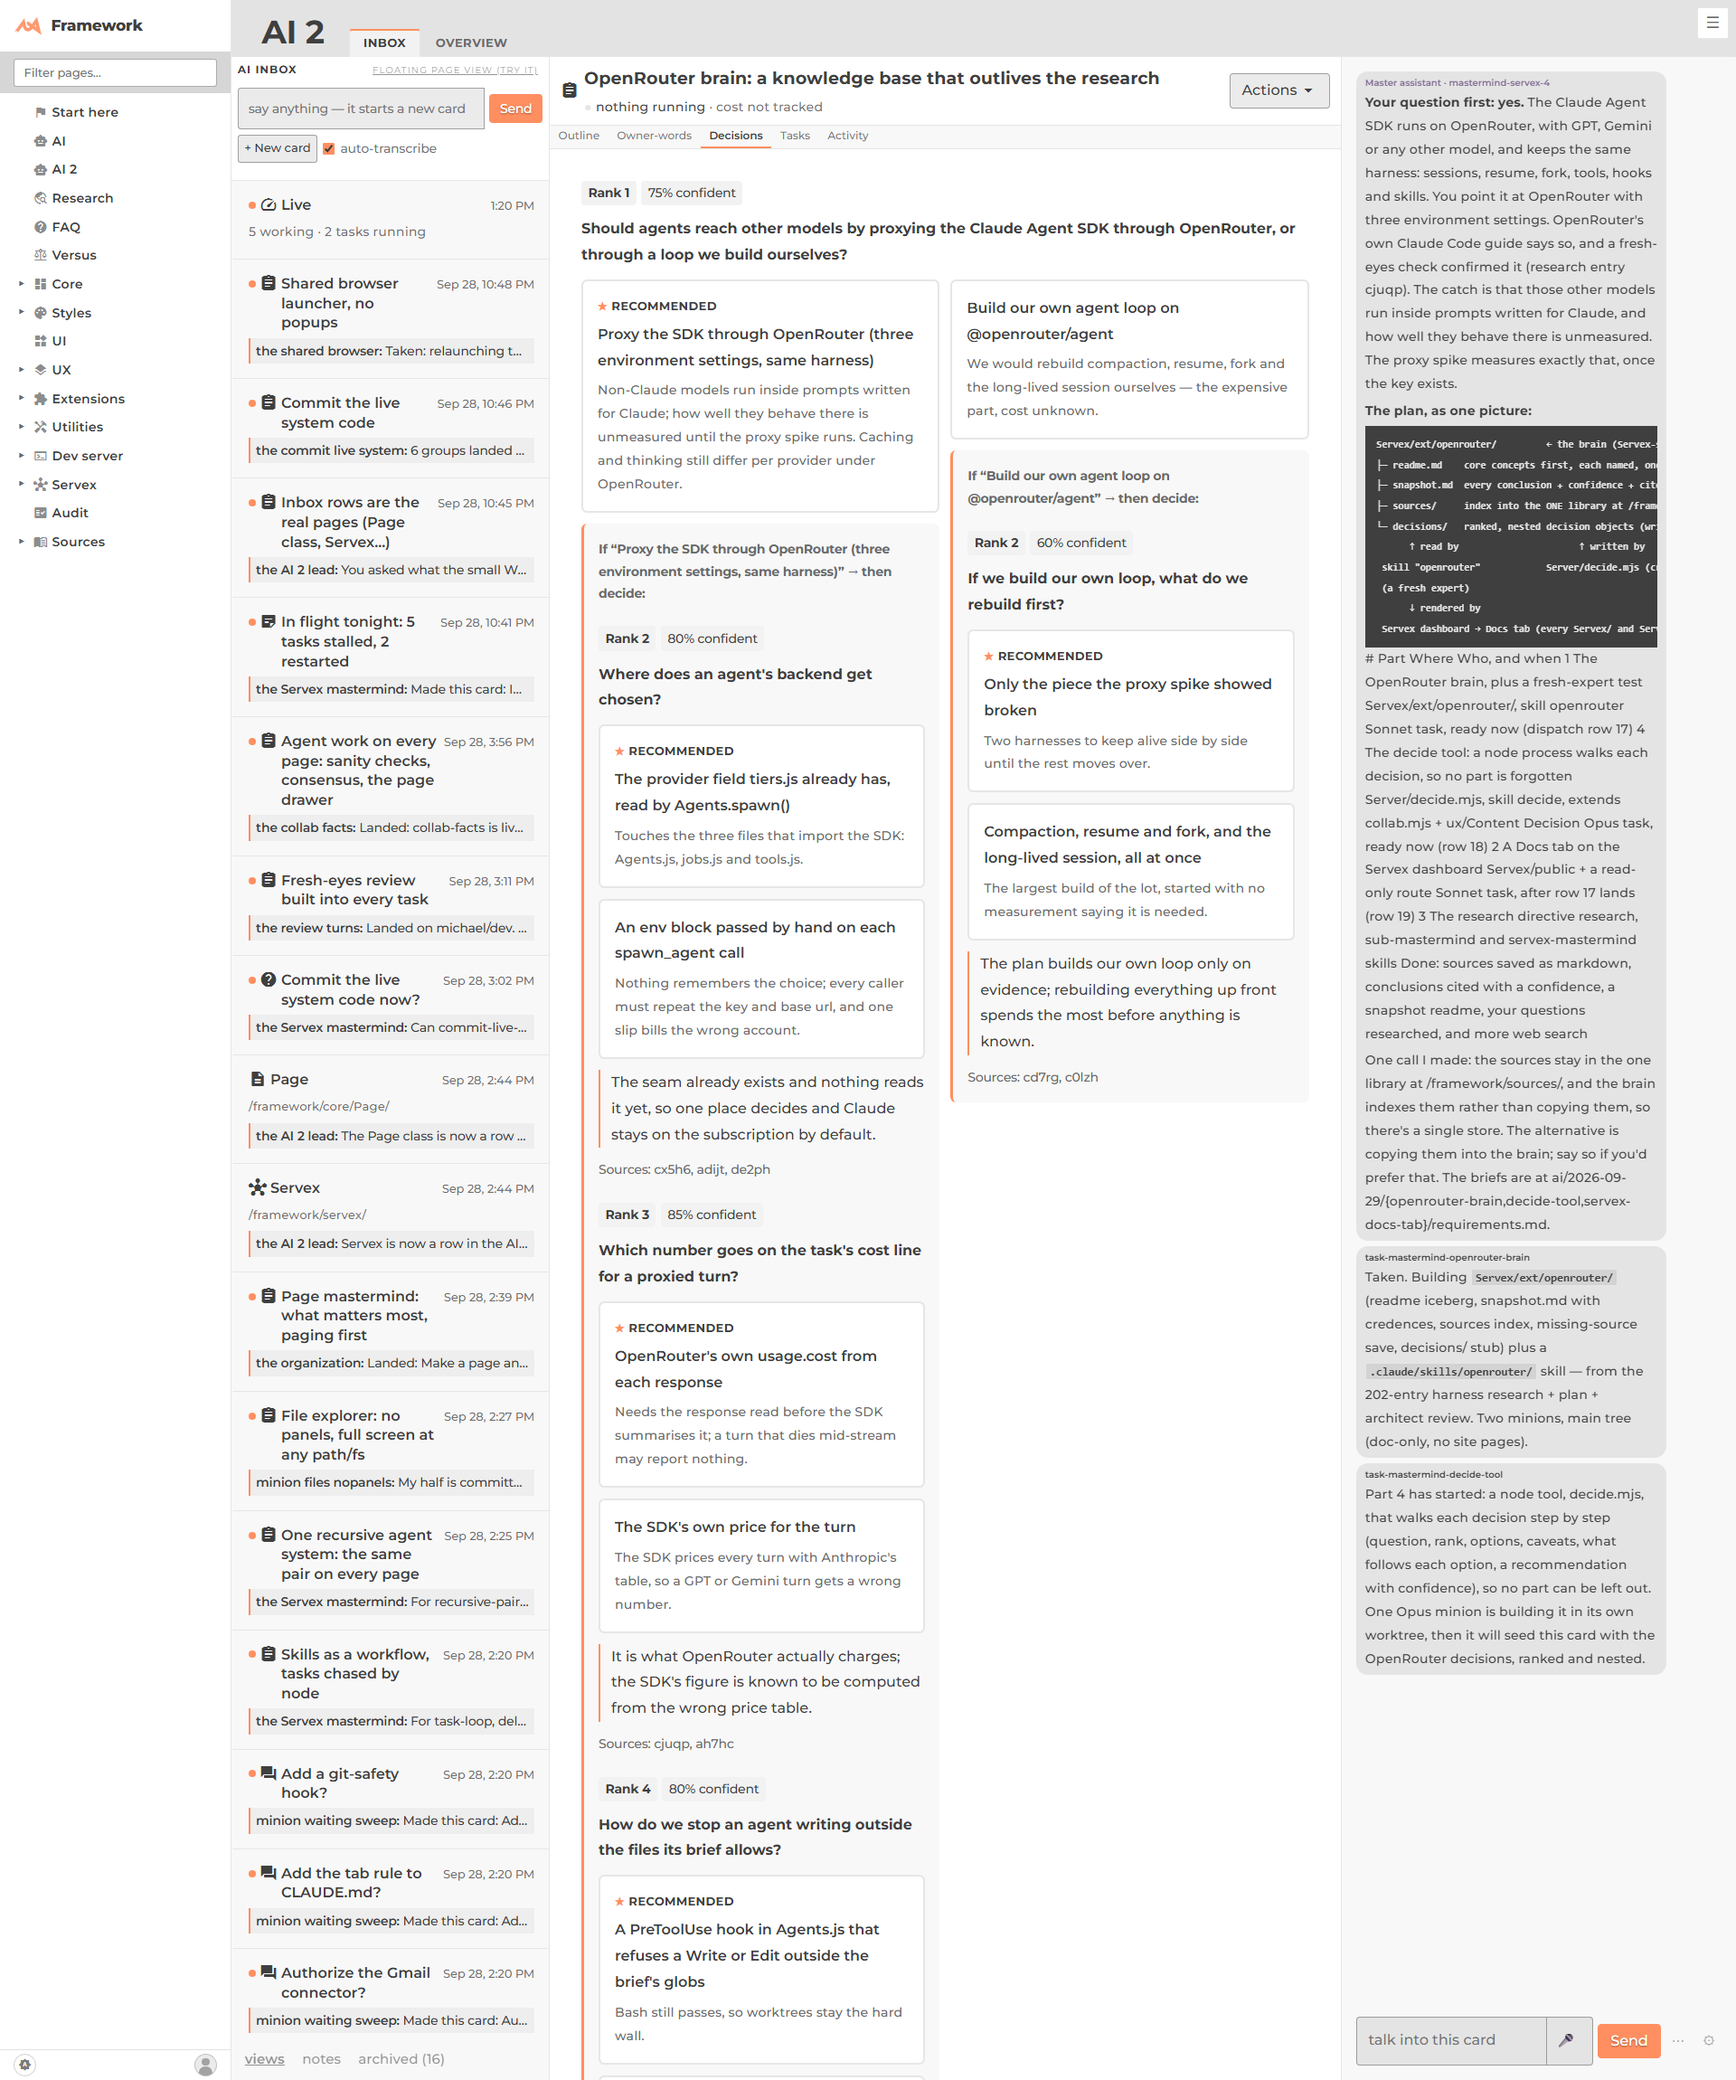
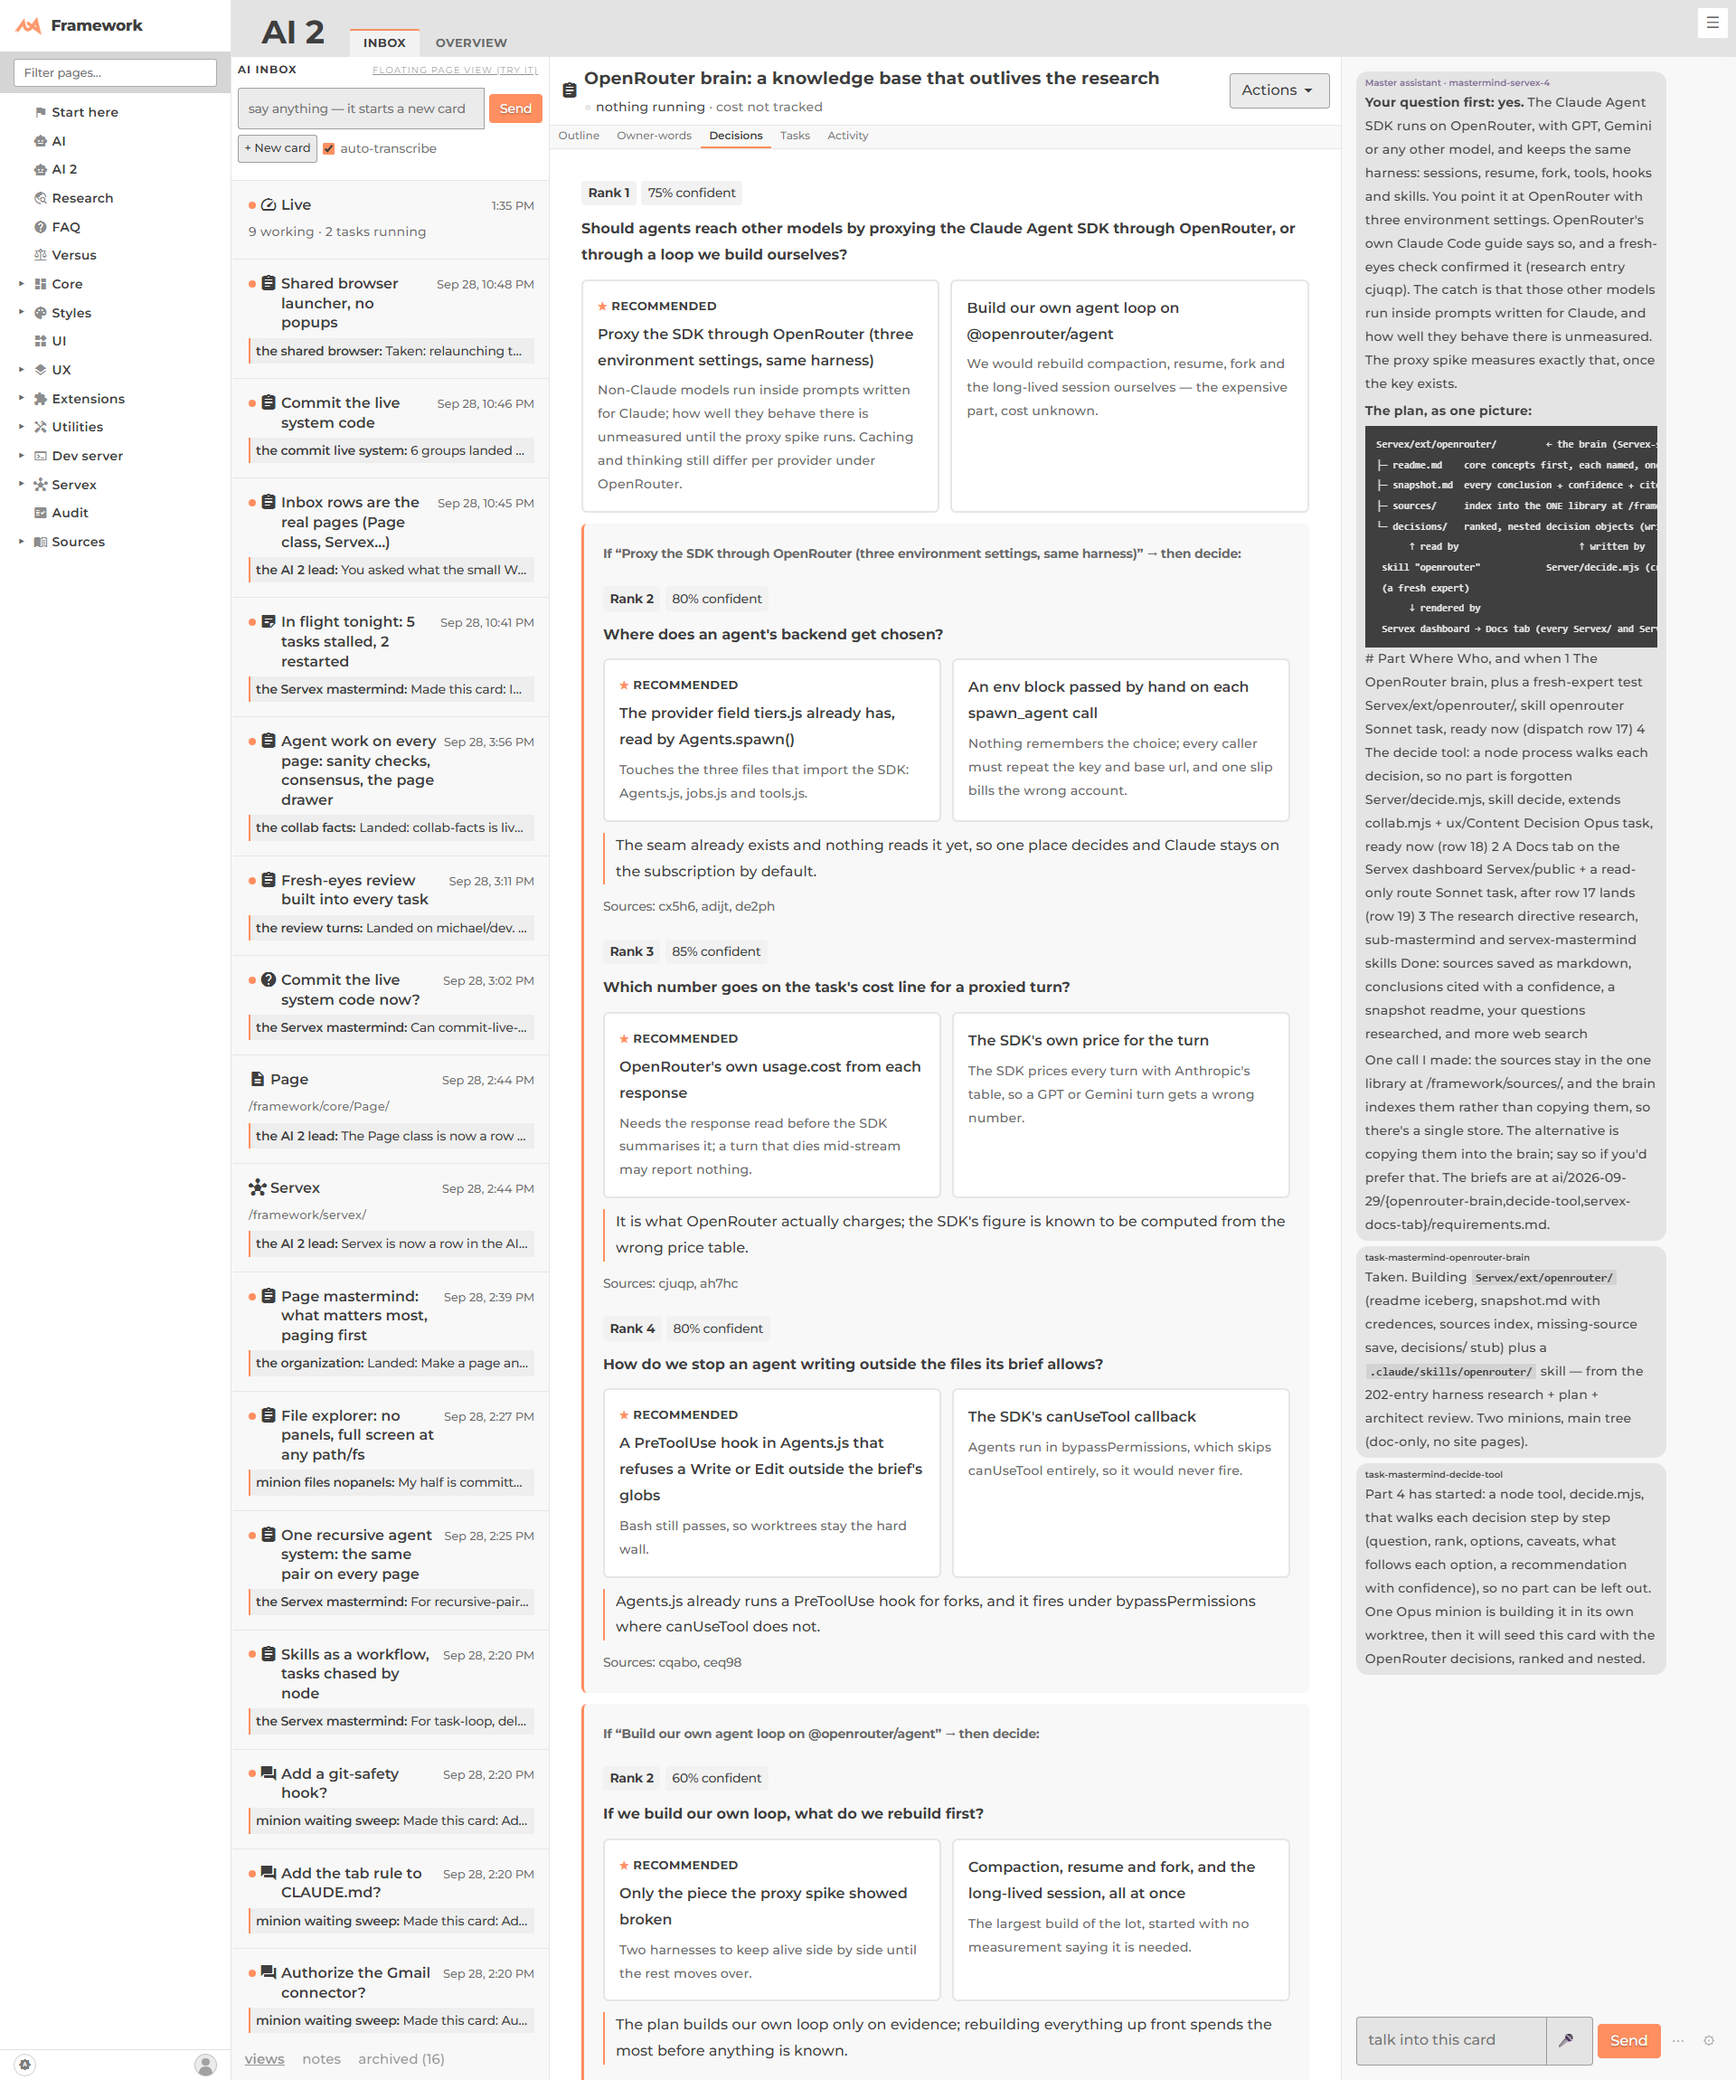
decide: children full width, depends_on the one truth, chose line = decided

diff --git a/public/framework/ux/Content/Decision/Decision.js b/public/framework/ux/Content/Decision/Decision.js
@@ -69,7 +69,8 @@ export default class Decision extends ContentModule {
 		// One read, then show the latest `chose` for this id (later lines win).
 		this.history().then(lines => {
 			const line = lines.filter(l => l.chose?.decision === this.id).pop();
-			if (line){ this.chosen = line.chose.option; this.draw(); }
+			// A `chose` line IS the decision: who clicked it is who decided (one way to record a choice).
+			if (line){ this.chosen = line.chose.option; this.decided_by = line.chose.by; this.draw(); }
 		});
 	}
 
@@ -88,7 +89,7 @@ export default class Decision extends ContentModule {
 		const bits = [];
 		if (this.rank != null) bits.push(["ux-content-rank", `Rank ${this.rank}`]);
 		if (this.confidence != null) bits.push(["ux-content-confidence", `${Math.round(this.confidence * 100)}% confident`]);
-		if (this.status === "decided") bits.push(["ux-content-status", `Decided${this.decided_by ? " by " + this.decided_by : ""}`]);
+		if (this.chosen && this.decided_by) bits.push(["ux-content-status", `Decided by ${this.decided_by}`]);
 		if (bits.length) div.c("ux-content-decision-head", () => bits.forEach(([c, t]) => span.c(c, t)));
 	}
 
@@ -96,15 +97,10 @@ export default class Decision extends ContentModule {
 		if (this.sources?.length) p.c("ux-content-sources", "Sources: " + this.sources.join(", "));
 	}
 
+	/* The options side by side; then, full width below the row, each option's child decisions. */
 	wall(){
-		return ul.c("ui-decision-options", () => this.options.forEach(o => {
-			const kids = this.kids(o);
-			const $li = li(() => {
-				this.option(o);
-				if (kids.length) this.branch(o, kids);
-			});
-			if (kids.length) $li.ac("ux-content-branch");
-		}));
+		ul.c("ui-decision-options", () => this.options.forEach(o => li(() => this.option(o))));
+		this.options.forEach(o => { const kids = this.kids(o); if (kids.length) this.branch(o, kids); });
 	}
 
 	/* The child decisions an option leads to: from `nested` (Decisions.js), by option id. */
@@ -123,6 +119,7 @@ export default class Decision extends ContentModule {
 	/* Local first (the card shows it at once), then the log. */
 	choose(say){
 		this.chosen = say;
+		this.decided_by = this.who();
 		this.draw();
 		return this.write({ chose: { decision: this.id, option: say, at: this.now(), by: this.who() } });
 	}

diff --git a/public/framework/ux/Content/Decision/decision.css b/public/framework/ux/Content/Decision/decision.css
@@ -8,13 +8,8 @@
 	.ux-content-sources { color: var(--subtle); font-size: .85em; }
 	.ux-content-recommended::before { content: "★ "; }
 
-	/* An option that leads to more decisions is a column: the option, then its children. */
-	.ux-content-branch { display: flex; flex-direction: column; gap: var(--gap-50); min-width: 0; }
-	.ux-content-branch > button.ux-content-option { height: auto; }
-	/* Beside a branch, a plain option keeps its own height instead of stretching to the branch's. */
-	.ui-decision-options:has(> .ux-content-branch) { align-items: start; }
-
-	/* The children sit on a tinted ground with a rule on the left, so the nesting reads at a glance. */
+	/* An option's child decisions: full width below the option row, one block per option, on a
+	   tinted ground with a rule on the left; the label names the option they follow. */
 	.ux-content-then {
 		display: flex; flex-direction: column; gap: var(--gap);
 		background: var(--tint, var(--wash)); border-inline-start: 3px solid var(--prim);

diff --git a/public/framework/ux/Content/Decision/page.js b/public/framework/ux/Content/Decision/page.js
@@ -43,7 +43,7 @@ export default new Doc({
 		});
 
 		md("## Ranked and nested");
-		md("`Decisions.js` draws every decision in a log: the most foundational (rank 1) first, and each child **inside the option that leads to it** — choose this, then decide these. `Server/decide.mjs` writes the records, one step at a time, so none of rank, caveats, confidence or sources can be left out.");
+		md("`Decisions.js` draws every decision in a log: the most foundational (rank 1) first, and each child below its parent, **under the option that leads to it** — choose this, then decide these. `Server/decide.mjs` writes the records, one step at a time, so none of rank, caveats, confidence or sources can be left out.");
 		nested();
 
 		md("## Old decisions render the same way");

diff --git a/Server/doc/decide.md b/Server/doc/decide.md
@@ -29,7 +29,7 @@ node Server/decide.mjs show d-host --file $F        # status <id> = just what's 
 ```
 
 - **Option ids** are the first three words of the text, slugged (`"On a rented server"` → `on-a-rented`). You can also pass your own `id`.
-- **A child finds its parent.** Creating a decision with `--depends-on` adds it to that option's `then` while the parent is still a draft.
+- **One truth for nesting: `depends_on`.** Creating a child with `--depends-on parent:option` adds it to that option's `then` while the parent is still a draft. A parent that is already logged is never rewritten, so a new child for it is **refused** ("create children while the parent is a draft, or drop and redo"). A `then` that names a child whose `depends_on` points somewhere else is refused too. So `then` can only repeat `depends_on`, never disagree with it. (The alternative was re-appending the parent with an updated `then`. It was rejected because it puts two versions of one decision in the log.)
 - **Several parts at once.** `--json` takes an object with the same fields as the flags, or an array: for `options` the options, for `caveats` and `then` a list of `{"option":"a","caveats":[…]}` / `{"option":"a","then":[…]}`. `--options`, `--caveats` and `--then` parse JSON too; caveats and then also take an object keyed by option id. Each option can carry its own `caveats` and `then`.
 - **Refused, not guessed.** An unknown flag is refused with the flags that verb knows. Text that starts like JSON (`[` or `{`) in `--option`, `--caveat` or `--why` is refused instead of being slugged into an id (that once made `[{"id":"a",…}]` one option called `idatextaidbtextb`). A refused call changes nothing.
 - **Self-test:** `node public/framework/ai/2026-09-29/decide-tool/decide-selftest.mjs` drives the CLI against a throwaway log (17 checks).
@@ -37,6 +37,8 @@ node Server/decide.mjs show d-host --file $F        # status <id> = just what's 
 ## The record
 
 `id, question, rank, options:[{id, text, caveats, then}], recommended, confidence, why, sources, depends_on, status, decided_by, by, at`, plus `ask` (= question) and each option's `say` (= text) and `caveat` (= caveats joined). Those three extra fields let the older `Decision` view and collab's decision shape read the record without changes.
+
+**Deciding is one line, and only one kind of line.** decide.mjs writes every decision as `status: "open"`, `decided_by: null`. It proposes and recommends; it never decides. A choice is a `chose` line, `{"chose":{"decision","option","at","by"}}`, written when someone clicks an option on the card. The view treats the latest `chose` line for a decision as the decision and shows "Decided by <by>". `recommend` has no `--status` or `--decided-by` flag, so the same choice can't be recorded in two places that might disagree.
 
 ## As a module
 
@@ -49,6 +51,6 @@ The `then` verb is the function `follow`. A module that exports a function calle
 
 ## Showing it
 
-Add `{"place":{"module":"/framework/ux/Content/Decision/Decisions.js"}}` to a card's page.jsonl. It draws every decision in rank order, with each child inside the option that leads to it. On an AI 2 card with `{"layout":"tabs"}`, this becomes a **Decisions** tab.
+Add `{"place":{"module":"/framework/ux/Content/Decision/Decisions.js"}}` to a card's page.jsonl. It draws every decision in rank order. Below each decision's row of options, every option that leads to more decisions gets a full-width block labelled "If <option> → then decide:", holding its children. On an AI 2 card with `{"layout":"tabs"}`, this becomes a **Decisions** tab.
 
 **Not a Servex tool yet.** Adding one would mean changing Servex/, and Servex has to restart to pick that up. The CLI and the module are enough for now.

diff --git a/public/framework/ux/Content/Decision/readme.md b/public/framework/ux/Content/Decision/readme.md
@@ -9,7 +9,7 @@ new Decision({ id: "d-1", ask: "…", options: [{ say, caveat }], why, log })
 ```
 `export default` the class, everything from one data object — so a page.jsonl `place` line can construct it.
 
-**Every decision in a log, ranked and nested:** place `Decisions.js` — `{"place":{"module":"/framework/ux/Content/Decision/Decisions.js"}}`. Rank 1 first; a child decision sits inside the option that leads to it. The records come from `Server/decide.mjs` (its detail: `Server/doc/decide.md`), which walks each one step by step.
+**Every decision in a log, ranked and nested:** place `Decisions.js` — `{"place":{"module":"/framework/ux/Content/Decision/Decisions.js"}}`. Rank 1 first; a child decision sits below its parent's options, under "If <option> → then decide:". A click writes a `chose` line, and the latest one is the decision ("Decided by …"). The records come from `Server/decide.mjs` (its detail: `Server/doc/decide.md`), which walks each one step by step.
 
 ## Watch out
 - Writes: Servex `/card/append?id=` for a card host, else the dev socket's `append`; nothing when `edit()` is off.

diff --git a/public/framework/ux/Content/Decision/doc/shape.md b/public/framework/ux/Content/Decision/doc/shape.md
@@ -12,9 +12,9 @@ A record written by `Server/decide.mjs` (its detail: `Server/doc/decide.md`) kee
 | `confidence` (0–1) | a "75% confident" chip |
 | `recommended` (an option id) | a "★ recommended" mark on that option, until one is chosen |
 | `sources` | a "Sources: …" line under the reason |
-| `depends_on: {decision, option}` | the record is drawn inside that option of its parent |
+| `depends_on: {decision, option}` | the record is drawn full width below its parent's options, in the block labelled "If <option> → then decide:" |
 | options' `id`, `text`, `caveats`, `then` | `id` matches `recommended` and `depends_on.option`; `then` lists the children |
-| `status`, `decided_by` | "Decided by …" when `status` is `decided` |
+| `status`, `decided_by` | always `open` / `null` from decide.mjs: the card decides. The latest `chose` line is the decision, shown as "Decided by <by>" |
 
 A record without these draws exactly as before.
 

diff --git a/.claude/skills/decide/SKILL.md b/.claude/skills/decide/SKILL.md
@@ -15,7 +15,9 @@ One simple, concrete question, with:
 - for each option, **the decisions that follow** if it is chosen: "choose A, then decide X and Y",
 - a **recommended** option, a **confidence** from 0 to 1 (be honest: 0.6 means you're not sure), **why**, and **sources** (research ids or urls).
 
-A decision that only matters when some option is chosen is created with `--depends-on <parent>:<option>`. It is then drawn inside that option.
+A decision that only matters when some option is chosen is created with `--depends-on <parent>:<option>`, **while the parent is still a draft**. A logged parent can't gain children. It is then drawn below its parent, under that option.
+
+You recommend; you never decide. The owner decides by clicking an option on the card, which writes a `chose` line.
 
 ## The walk
 
